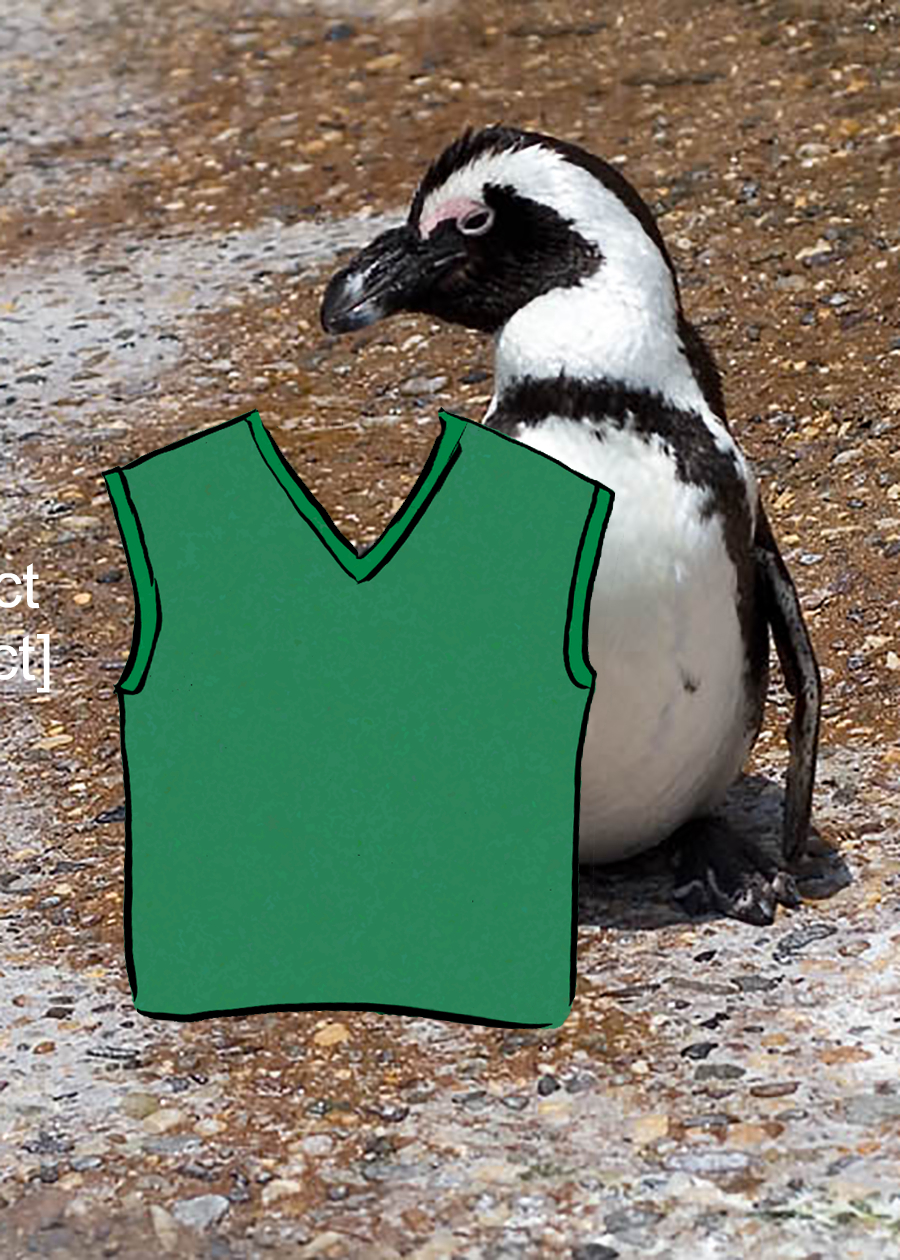
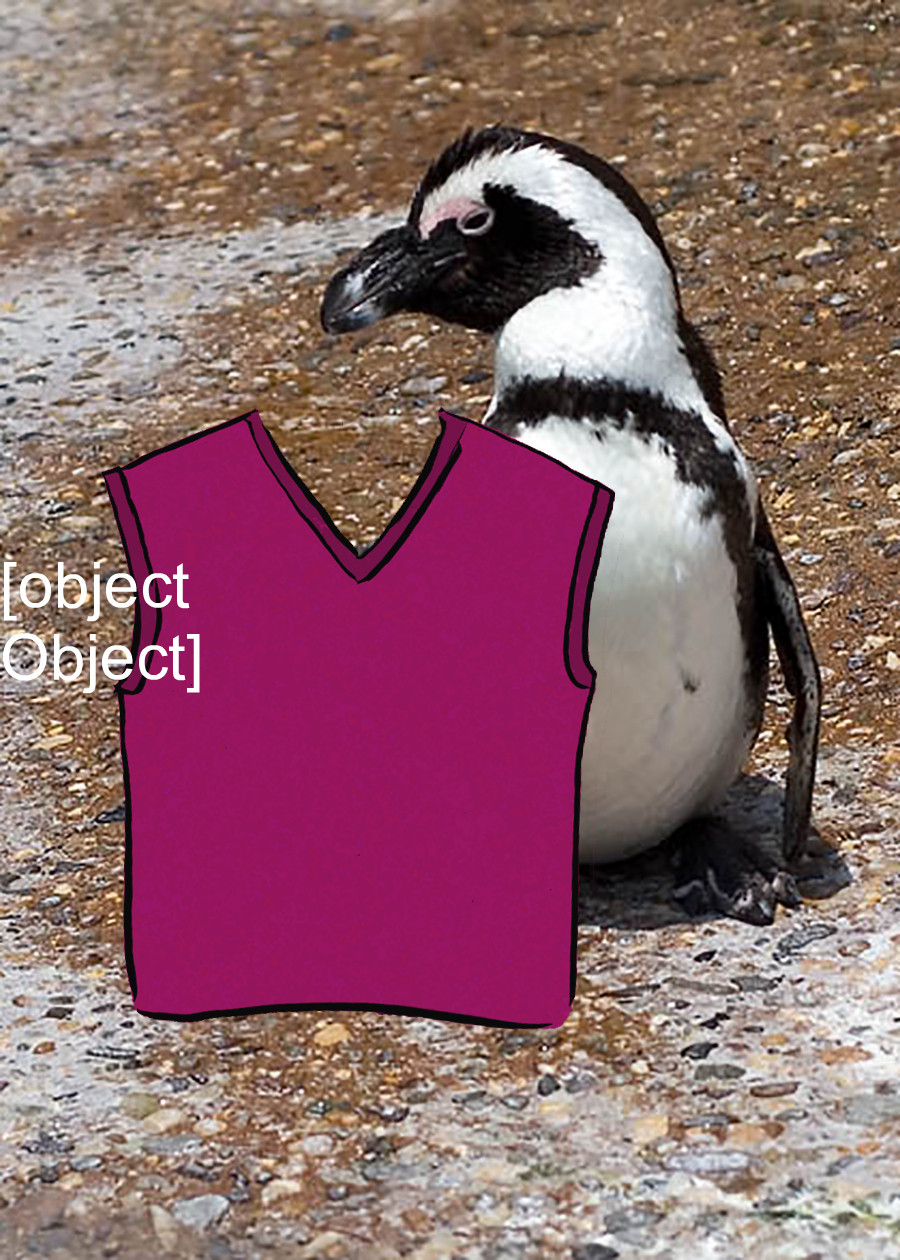
fixed only 1 penguin click necessary, started handle click swaddle line 87-106

Changed region(s): [[0.0, 0.3095, 0.6844, 0.8357]]

diff --git a/client/src/pages/Swaddle/index.js b/client/src/pages/Swaddle/index.js
@@ -14,33 +14,19 @@ class Swaddle extends Component {
     imageTypes,
     clickedPenguinURL: "",
     clickedSweaterURL: "",
-    userText: ""
+    userTextGrabbed: ""
     // userSelectedObject: { penguin: "", sweater: "", UserTextInput: "" }
   };
 
-  // handleClick = event => {
-  //   const imgURL = event.target.getAttribute("src");
-  //   // console.log("i am a url", imgURL);
-  //   // TO DO rewrite this so it drills down one of the arrays
-  //   const clickedImage = this.state.imageTypes.find(
-  //     img => img.imgURL == imgURL
-  //   );
-
-  //   if (!clickedImage.clicked) {
-  //     clickedImage.clicked = true;
-  //   }
-  //   // TO DO all other images in the array penguins or sweaters will be false
-  //   console.log(clickedImage);
-  // };
-
+  // Selecting a penguin and a sweater
   handleClick = event => {
     const clickedImageURL = event.target.getAttribute("src");
     const clickedImageType = event.target.getAttribute("dataType");
-    console.log(clickedImageURL, clickedImageType);
+    // console.log(clickedImageURL, clickedImageType);
 
     if (clickedImageType == "penguin") {
       const clickedPenguinURL = clickedImageURL;
-      console.log("clickedPenguinURL is " + clickedPenguinURL);
+      // console.log("clickedPenguinURL is " + clickedPenguinURL);
       this.setState(
         {
           clickedPenguinURL: clickedPenguinURL
@@ -48,82 +34,78 @@ class Swaddle extends Component {
         () => {
           console.log("callback executed");
           if (this.state.clickedPenguinURL && this.state.clickedSweaterURL) {
-            console.log("we're tyring hard");
+            // console.log("got both p&g");
             API.jimpImages({
               imgPenguin: this.state.clickedPenguinURL,
               imgSweater: this.state.clickedSweaterURL
-            }).then(data => console.log("here it is", data));
+              // }).then(data => console.log("here it is", data));
+            });
           }
         }
       );
-      // AND all others in the array of penguins is clicked:false
     }
     // if (clickedImageType == imageTypes.sweaters.type) {
     if (clickedImageType == "sweater") {
       const clickedSweaterURL = clickedImageURL;
-      console.log("clickedSweaterURL is " + clickedSweaterURL);
-      this.setState({
-        clickedSweaterURL: clickedSweaterURL
-      });
-      // To Do: give setState success callback
+      // console.log("clickedSweaterURL is " + clickedSweaterURL);
+      // setState with success callback
+      this.setState(
+        {
+          clickedSweaterURL: clickedSweaterURL
+        },
+        () => {
+          console.log("callback executed");
+          if (this.state.clickedPenguinURL && this.state.clickedSweaterURL) {
+            // console.log("got both p&g");
+            API.jimpImages({
+              imgPenguin: this.state.clickedPenguinURL,
+              imgSweater: this.state.clickedSweaterURL
+              // }).then(data => console.log("here it is", data));
+            });
+          }
+        }
+      );
     }
   };
+
   handleInputChange = event => {
     const value = event.target.value;
     this.setState({
       value: value
     });
   };
-  // handleText = event => {
-  //   const inputValue = event.target.value;
+
+  // Grabbing Text - able to grab keystrokes
+  handleText = event => {
+    const userTextGrabbed = event.target.value;
+    // const userText = "";
+    // do we set a default? - placeholder is in UserTextInput component
+    this.setState({ userTextGrabbed: userTextGrabbed });
+    console.log("user text is ", this.state.userTextGrabbed);
+  };
+
+  // handleTextAddClick = event => {
   //   event.preventDefault();
-
-  //   API.jimpImages({
-  //     userText: this.inputValue
-  //   }).then(data => console.log("It the Text", data));
+  //   // console.log("checking userText passing", this.state.userTextGrabbed);
+  //   () => {
+  //     // console.log("callback executed");
+  //     if (
+  //       this.state.clickedPenguinURL &&
+  //       this.state.clickedSweaterURL &&
+  //       this.state.userTextGrabbed
+  //     ) {
+  //       console.log("got all three elements");
+  //       API.jimpImages({
+  //         imgPenguin: this.state.clickedPenguinURL,
+  //         imgSweater: this.state.clickedSweaterURL,
+  //         userText: this.state.userTextGrabbed
+  //         // }).then(data => console.log("here it is", data));
+  //       }).then(data => console.log("It the Text", data));
+  //     }
+  //   };
   // };
 
-  // // EXAMPLE FROM wk20act11
-  // handleInputChange = event => {
-  //   const { name, value } = event.target;
-  //   this.setState({
-  //     [name]: value
-  //   });
-  // };
-  // handleFormSubmit = event => {
-  //   event.preventDefault();
-  //   if (this.state.title && this.state.author) {
-  //     API.saveBook({
-  //       title: this.state.title,
-  //       author: this.state.author,
-  //       synopsis: this.state.synopsis
-  //     })
-  //       .then(res => this.loadBooks())
-  //       .catch(err => console.log(err));
-  //   }
-  // };
-
-  // // TO DO POST clickedSweaterURL and clickedPenguinURL
-  // sendImagesToJimp = (clickedPenguinURL, clickedSweaterURL) => {
-  //   API.jimpImages({
-  //     clickedPenguinURL,
-  //     clickedSweaterURL
-  //   })
-  //     .then()
-  //     .catch(err => console.log(err));
-  // };
-
-  // WTF was this? see below
-  // useEffect(() => {
-  //   API.swaddle({
-  //     penguin: state.imgPenguin,
-  //     sweater: state.sweaterOverlay,
-  //     textOverlay: UserTextInput
-  //   }).then(data => {
-  //     // TO DO set state with the data or pass down the processed image as a prop
-  //   });
-  // }, []); // on change
-
+  // The page
   render() {
     return (
       <>
@@ -173,7 +155,15 @@ class Swaddle extends Component {
                   </Row>
                   <Row>
                     <Col size="md-12">
-                      <UserTextInput />
+                      <form>
+                        <UserTextInput
+                          userText={this.state.userText}
+                          handleChange={this.handleText}
+                        />
+                        <AddTextBtn onClick={this.handleTextAddClick}>
+                          Add
+                        </AddTextBtn>
+                      </form>
                     </Col>
                   </Row>
                 </Col>

diff --git a/routes/api/jimp-routes.js b/routes/api/jimp-routes.js
@@ -28,10 +28,10 @@ router
   //   res.send(penguinRaw);
   //   // res.json(penguinRaw);
   // })
-  .post((req, res) => {
-    console.log(`the goal`, req.body);
+  .post(req, res => {
+    console.log(`the text is`, req.body);
     jimp(req.body);
-    res.json({ roundtrip: "true" });
+    res.json({ roundtrip: "true for text" });
   });
 
 // // Matches with "/api/jimp-routes/:sweater"
@@ -52,6 +52,10 @@ router
 // Process Jimp
 
 function jimp({ imgPenguin, imgSweater, userText }) {
+  const userText = "";
+  console.log(typeof __dirname);
+  console.log(typeof imgPenguin);
+  console.log(imgPenguin, imgSweater);
   // Initiate the images:
   // let penguinRaw = process.env.PUBLIC_URL + imgPenguin; // background image examples should all be the same size
   // let sweaterRaw = process.env.PUBLIC_URL + imgSweater; // png layer
@@ -68,7 +72,7 @@ function jimp({ imgPenguin, imgSweater, userText }) {
     text: userText, //the text to be rendered on the image - will be input
     maxWidth: 300, // SET THIS AS penguin image width - 10px margin left - 10px margin right
     maxHeight: 300, // SET THIS AS penguin image width - 10px margin top - 10px margin bottom
-    placementX: -150, // x axis
+    placementX: 0, // x axis
     placementY: 550 // y axis
   };
 

diff --git a/client/src/components/UserTextInput/index.js b/client/src/components/UserTextInput/index.js
@@ -16,6 +16,9 @@ function UserTextInput(props) {
         placeholder="Say something funny!"
         aria-label="Add to Image"
         value={props.userText}
+        onChange={props.handleChange}
+
+        // TO DO LIMIT TO 35 CHAR
       ></textarea>
       {/* <AddTextBtn onClick={this.handleText} /> */}
     </div>
